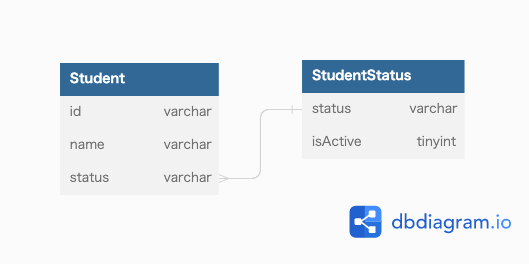
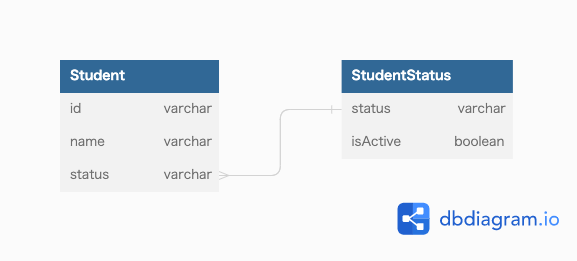
DBアンチパターン6 修正

diff --git a/DB/anti-pattern-6/work/ER.md b/DB/anti-pattern-6/work/ER.md
@@ -7,7 +7,7 @@ status varchar
 
 TABLE StudentStatus {
   status varchar
-  isActive tinyint
+  isActive boolean
 }
 
 ref: Student.status > StudentStatus.status
